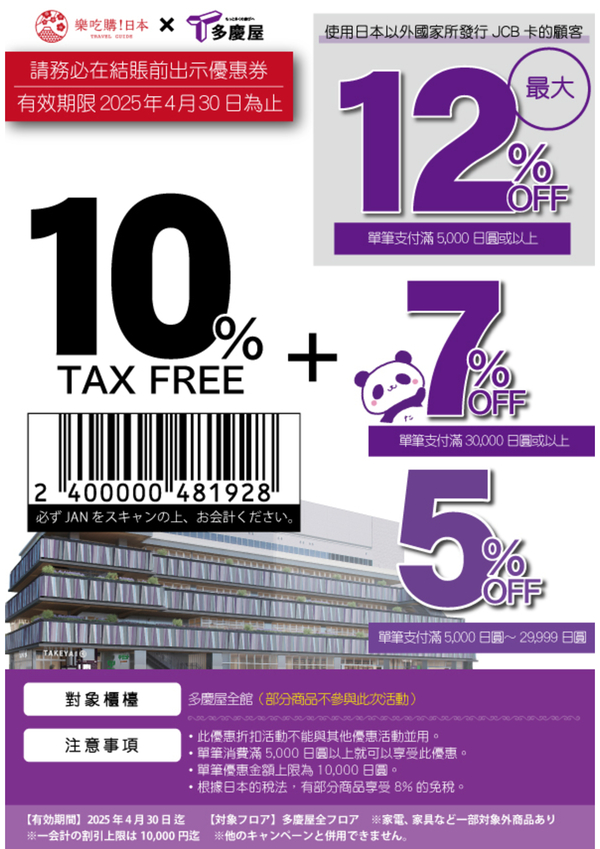
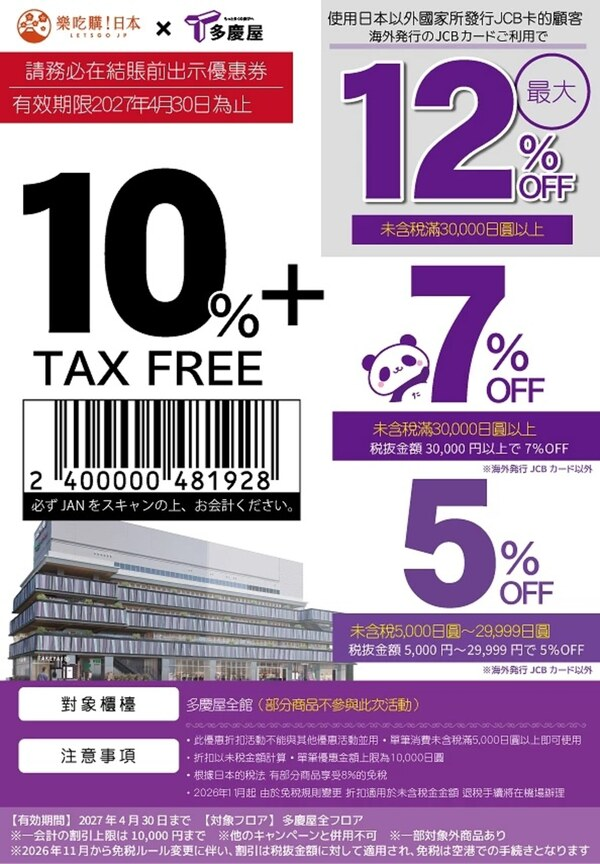
Coupon: sync stale deadlines and retire expired coupons
Checked every disputed deadline against the coupon artwork itself:

- 多慶屋: the site was still serving the 2025 campaign image. Swapped in
  the current one (valid to 2027/04/30), so the max discount is now
  10% tax free + 12% overseas-JCB = 22% off (was listed as 17%).
  Also fixed the "JBC 卡" typo → 海外發行 JCB 卡.
- 樂天免稅店: site image was the expired 2026/01/31 version and still
  showed the old TOKYU PLAZA address; the store has moved to GinzaNovo.
  Swapped in the current image, deadline → 2027/01/31.
- 京王百貨 / snow peak: both coupons print 2027/03/31 but the JSON said
  2027/07/31 (TW + KR).
- 名鐵百貨: expired 2026/02/28 with no renewal artwork — removed from
  the TW and KR lists and from the sitemap. The page itself is kept so
  existing links don't 404.
- KR 樂天 / 多慶屋: same, expired with no Korean replacement artwork.
- Fixed dead image paths: coupons.json points at new.jpg (file was
  named new1.jpg), and the KR 福太郎/近鐵 entries pointed at .pdf names
  instead of their -ko.jpg images.

大國藥妝 is left alone on purpose: its coupon prints no expiry date, so
the site (2028/06/30) and the app (2026/12/31) disagree with nothing to
settle it.

diff --git a/coupon/takeya/index.html b/coupon/takeya/index.html
@@ -14,7 +14,7 @@
 
     <link rel="canonical" href="https://junlando.com/coupon/takeya/" />
     <title>【多慶屋 優惠券】2026 日本最新折扣（免稅＋優惠）</title>
-    <meta name="description" content="多慶屋 最新優惠：滿額免稅10%，最高再享88折(最高回饋僅限JBC卡)。2026 日本購物旅遊必備折扣券，免稅再省一次。" />
+    <meta name="description" content="多慶屋 最新優惠：滿額免稅10%，最高再享88折(最高回饋僅限海外發行JCB卡)。2026 日本購物旅遊必備折扣券，免稅再省一次。" />
     <meta name="keywords" content="多慶屋 優惠券,多慶屋 折價券,多慶屋 日本折扣,多慶屋 coupon,日本優惠券,日本購物折扣" />
 
     <script type="application/ld+json">
@@ -22,7 +22,7 @@
   "@context": "https://schema.org",
   "@type": "Product",
   "name": "多慶屋 日本優惠券",
-  "description": "多慶屋 最新優惠：滿額免稅10%，最高再享88折(最高回饋僅限JBC卡)。2026 日本購物旅遊必備折扣券，免稅再省一次。",
+  "description": "多慶屋 最新優惠：滿額免稅10%，最高再享88折(最高回饋僅限海外發行JCB卡)。2026 日本購物旅遊必備折扣券，免稅再省一次。",
   "url": "https://junlando.com/coupon/takeya/",
   "brand": {
     "@type": "Brand",
@@ -33,8 +33,8 @@
     "price": "0",
     "priceCurrency": "JPY",
     "availability": "https://schema.org/InStock",
-    "validThrough": "2026-04-30",
-    "description": "83折"
+    "validThrough": "2027-04-30",
+    "description": "78折"
   }
 }
     </script>
@@ -312,10 +312,10 @@
     </div>
 
     <div class="hidden-seo">
-        <h1>多慶屋 優惠券｜滿額免稅10%，最高再享88折(最高回饋僅限JBC卡)</h1>
-        <p>滿額免稅10%，最高再享88折(最高回饋僅限JBC卡)</p>
-        <p>折扣資訊：83折</p>
-        <p>優惠截止：2026-04-30</p>
+        <h1>多慶屋 優惠券｜滿額免稅10%，最高再享88折(最高回饋僅限海外發行JCB卡)</h1>
+        <p>滿額免稅10%，最高再享88折(最高回饋僅限海外發行JCB卡)</p>
+        <p>折扣資訊：78折</p>
+        <p>優惠截止：2027-04-30</p>
     </div>
     <script>
         (function(){

diff --git a/coupon/kr/snowpeak/index.html b/coupon/kr/snowpeak/index.html
@@ -33,7 +33,7 @@
     "price": "0",
     "priceCurrency": "JPY",
     "availability": "https://schema.org/InStock",
-    "validThrough": "2027-07-31",
+    "validThrough": "2027-03-31",
     "description": "최대 혜택"
   }
 }
@@ -316,7 +316,7 @@
         <h1>snow peak (스노우 피크) 쿠폰｜1만 엔 이상 면세 10% + 3% 할인, 3만 엔 이상 5% 할인, 5만 엔 이상 7% 할인</h1>
         <p>1만 엔 이상 면세 10% + 3% 할인, 3만 엔 이상 5% 할인, 5만 엔 이상 7% 할인</p>
         <p>할인 정보: 최대 혜택</p>
-        <p>할인 마감: 2027-07-31</p>
+        <p>할인 마감: 2027-03-31</p>
     </div>
     <script>
         (function(){

diff --git a/coupon/kr/keio/index.html b/coupon/kr/keio/index.html
@@ -33,7 +33,7 @@
     "price": "0",
     "priceCurrency": "JPY",
     "availability": "https://schema.org/InStock",
-    "validThrough": "2027-07-31",
+    "validThrough": "2027-03-31",
     "description": "최대 혜택"
   }
 }
@@ -316,7 +316,7 @@
         <h1>게이오 백화점 신주쿠점 쿠폰｜3,000엔 이상 구매 시 면세 10% + 5% 할인 가능</h1>
         <p>3,000엔 이상 구매 시 면세 10% + 5% 할인 가능</p>
         <p>할인 정보: 최대 혜택</p>
-        <p>할인 마감: 2027-07-31</p>
+        <p>할인 마감: 2027-03-31</p>
     </div>
     <script>
         (function(){

diff --git a/coupon/snowpeak/index.html b/coupon/snowpeak/index.html
@@ -33,7 +33,7 @@
     "price": "0",
     "priceCurrency": "JPY",
     "availability": "https://schema.org/InStock",
-    "validThrough": "2027-07-31",
+    "validThrough": "2027-03-31",
     "description": "83折"
   }
 }
@@ -315,7 +315,7 @@
         <h1>snow peak 優惠券｜滿1萬日圓免稅10%再97折，滿3萬日圓95折，滿5萬日圓93折</h1>
         <p>滿1萬日圓免稅10%再97折，滿3萬日圓95折，滿5萬日圓93折</p>
         <p>折扣資訊：83折</p>
-        <p>優惠截止：2027-07-31</p>
+        <p>優惠截止：2027-03-31</p>
     </div>
     <script>
         (function(){

diff --git a/coupon/keio/index.html b/coupon/keio/index.html
@@ -33,7 +33,7 @@
     "price": "0",
     "priceCurrency": "JPY",
     "availability": "https://schema.org/InStock",
-    "validThrough": "2027-07-31",
+    "validThrough": "2027-03-31",
     "description": "85折"
   }
 }
@@ -315,7 +315,7 @@
         <h1>京王百貨 新宿店 優惠券｜滿3000日圓可享免稅10%再95折</h1>
         <p>滿3000日圓可享免稅10%再95折</p>
         <p>折扣資訊：85折</p>
-        <p>優惠截止：2027-07-31</p>
+        <p>優惠截止：2027-03-31</p>
     </div>
     <script>
         (function(){

diff --git a/coupon/lotte/index.html b/coupon/lotte/index.html
@@ -34,7 +34,7 @@
     "price": "0",
     "priceCurrency": "JPY",
     "availability": "https://schema.org/InStock",
-    "validThrough": "2026-01-31",
+    "validThrough": "2027-01-31",
     "description": "2000日圓"
   }
 }
@@ -318,7 +318,7 @@
         <p>滿1萬日圓，折1千日圓
 滿2萬日圓，折2千日圓</p>
         <p>折扣資訊：2000日圓</p>
-        <p>優惠截止：2026-01-31</p>
+        <p>優惠截止：2027-01-31</p>
     </div>
     <script>
         (function(){

diff --git a/coupon/new1/index.html b/coupon/new1/index.html
@@ -308,7 +308,7 @@
     </header>
 
     <div class="coupon-container">
-        <img src="../coupon_images/new1.jpg" alt="九州新生堂藥局 優惠券 | 日本折扣" class="coupon-img" />
+        <img src="../coupon_images/new.jpg" alt="九州新生堂藥局 優惠券 | 日本折扣" class="coupon-img" />
     </div>
 
     <div class="hidden-seo">
